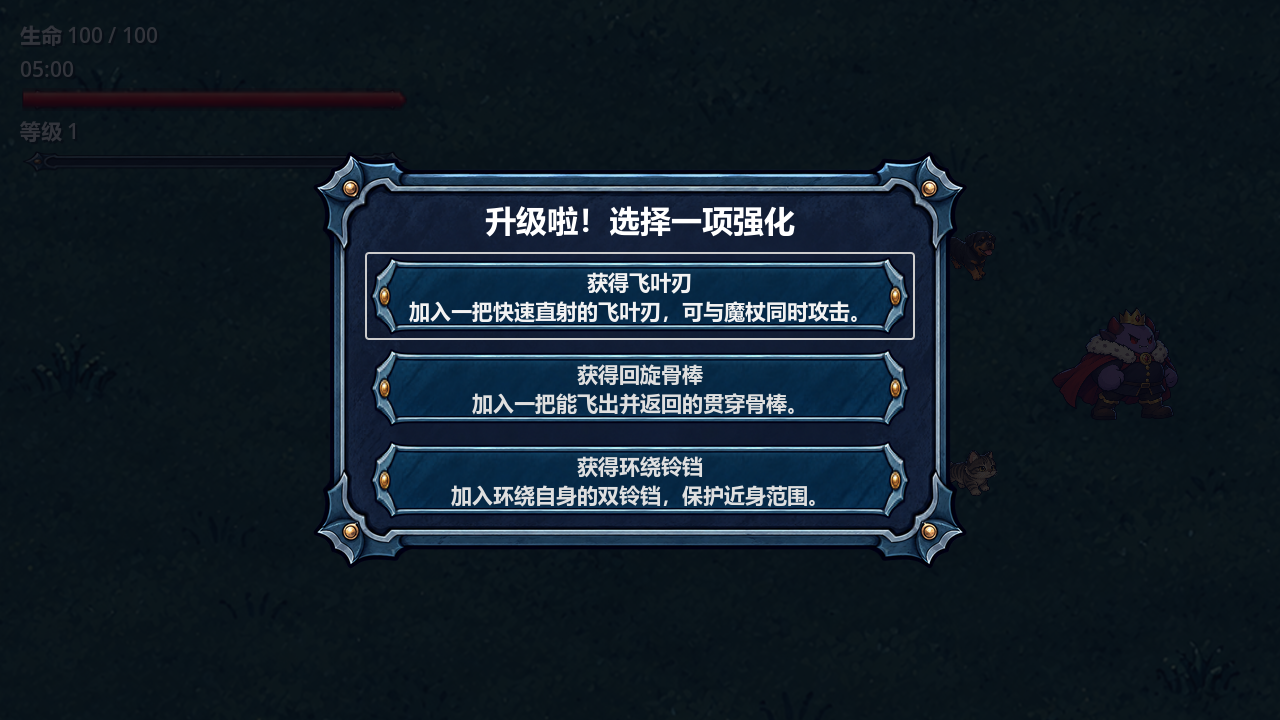
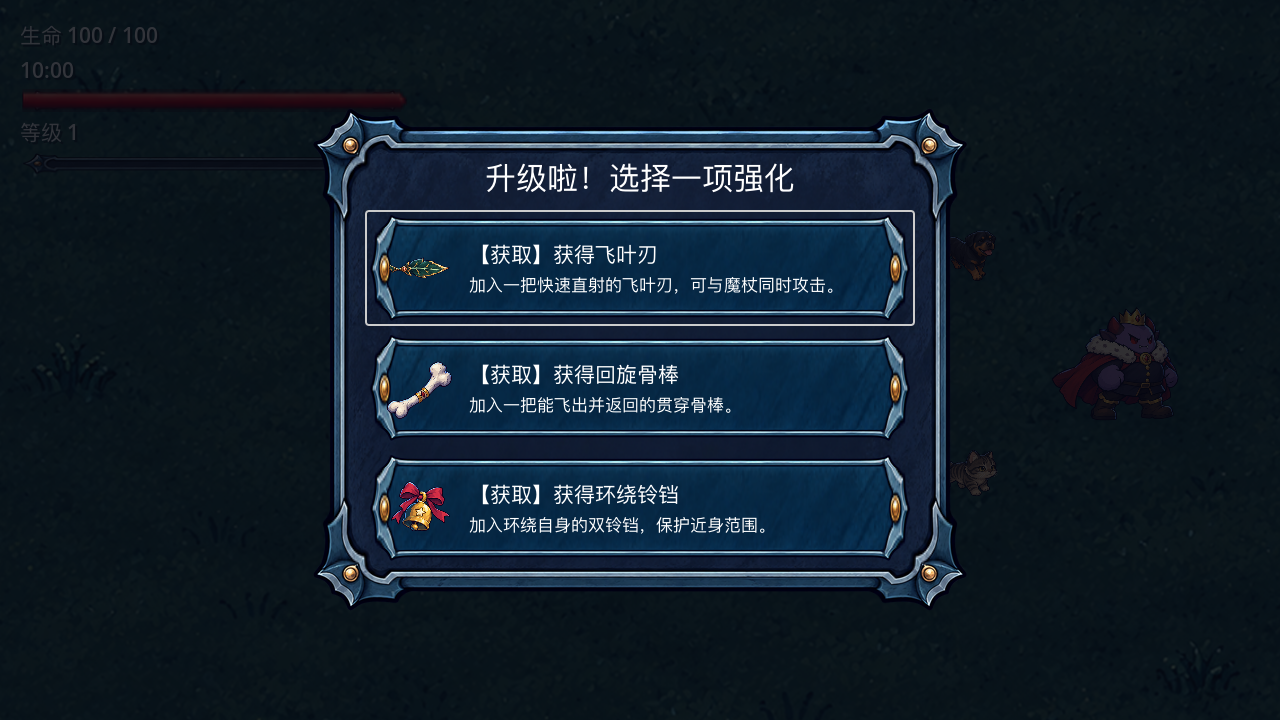
fix: 升级卡图标排版并补齐 46 个升级图标

Changed region(s): [[0.25, 0.1528, 0.75, 0.8556], [0.0, 0.0917, 0.0312, 0.1222]]

diff --git a/godot_survivor_codex_spec/docs/TASKS.md b/godot_survivor_codex_spec/docs/TASKS.md
@@ -12,6 +12,14 @@
 
 验证：Godot 4.7.1 `--headless --path . --editor --quit` 解析 0；`--quit-after 300` 启动 0；`tests/smoke` 68 项快速冒烟 0；120 秒 soak 0。专项见 `equipment_display_smoke_test.gd`、`settings_panel_smoke_test.gd`、`coin_fallback_smoke_test.gd`、`map_selection_smoke_test.gd`。实拍 `art_review/v2_equipment_bar_preview.png`、`v2_settings_preview.png`、`v2_main_menu_preview.png`。
 
+## 用户追加：升级卡图标与排版（2026-09-25）
+
+- [x] 修复升级卡带图标时的排版错乱（自绘卡面：图标 + 分类标题 + 描述）
+- [x] 为 46 个升级卡补图标（获取/基础/质变/专属/金币）
+- [x] 列出仍缺图标的通用升级并保留空位
+- [x] 解析、启动、68 项快速冒烟、120 秒 soak 通过；实拍 `art_review/v2_upgrade_panel_preview.png`
+- [ ] 待生成 11 个通用属性图标：fire_rate、projectile_count、projectile_size、projectile_speed、repeat_shot、bonus_projectile、max_health、heal、dodge、immune、pierce
+
 ## 用户追加：十分钟终局与后期升级节奏（2026-09-25）
 
 - [x] 默认单局延长为 10 分钟，Boss 在 10:00 仅生成一次，普通敌人持续生成

diff --git a/godot_survivor_codex_spec/docs/CHANGELOG.md b/godot_survivor_codex_spec/docs/CHANGELOG.md
@@ -295,6 +295,13 @@
 - 修复既有 `icon` 属性写在 `script` 之前导致防具与升级卡图标被忽略的问题；主菜单底部控件收窄避免溢出。
 - 新增 4 个专项测试；解析、启动与 68 项快速冒烟、120 秒 soak 通过。
 
+### 升级卡图标与排版修复（2026-09-25）
+
+- 修复升级卡带图标时排版错乱：卡面改为自绘布局（图标 + 分类标题 + 描述），不再用 `Button.icon` 与多行文本混排。
+- 为 46 个升级卡补上对应图标（获取卡用所获武器/防具图标、基础/质变/专属用对应武器分支或成长图标、金币卡用金币图标）。
+- 仍有 11 个通用属性升级暂无对应素材（fire_rate/projectile_count/projectile_size/projectile_speed/repeat_shot/bonus_projectile/max_health/heal/dodge/immune/pierce），保留空图标并列入待生成清单。
+- 修正 `.tres` 中 `[ext_resource]` 误置于 `[resource]` 之后的解析错误；解析、启动与 68 项快速冒烟、120 秒 soak 通过。
+
 ### 四宠庭院与武器扩展（2026-09-20）
 
 - 新增虎妞、黑豹、小四、小七四帧动画；虎妞二次修订为小眼绷脸，黑豹引用原图。
